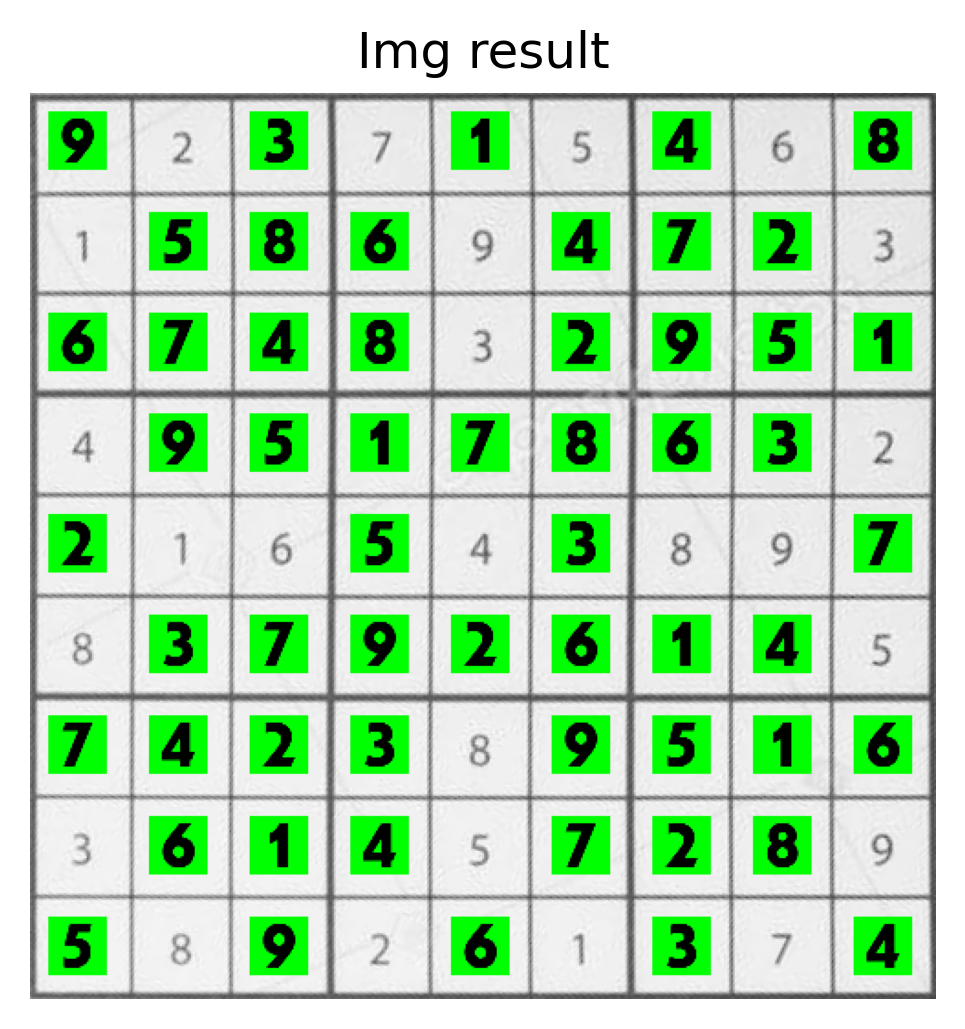
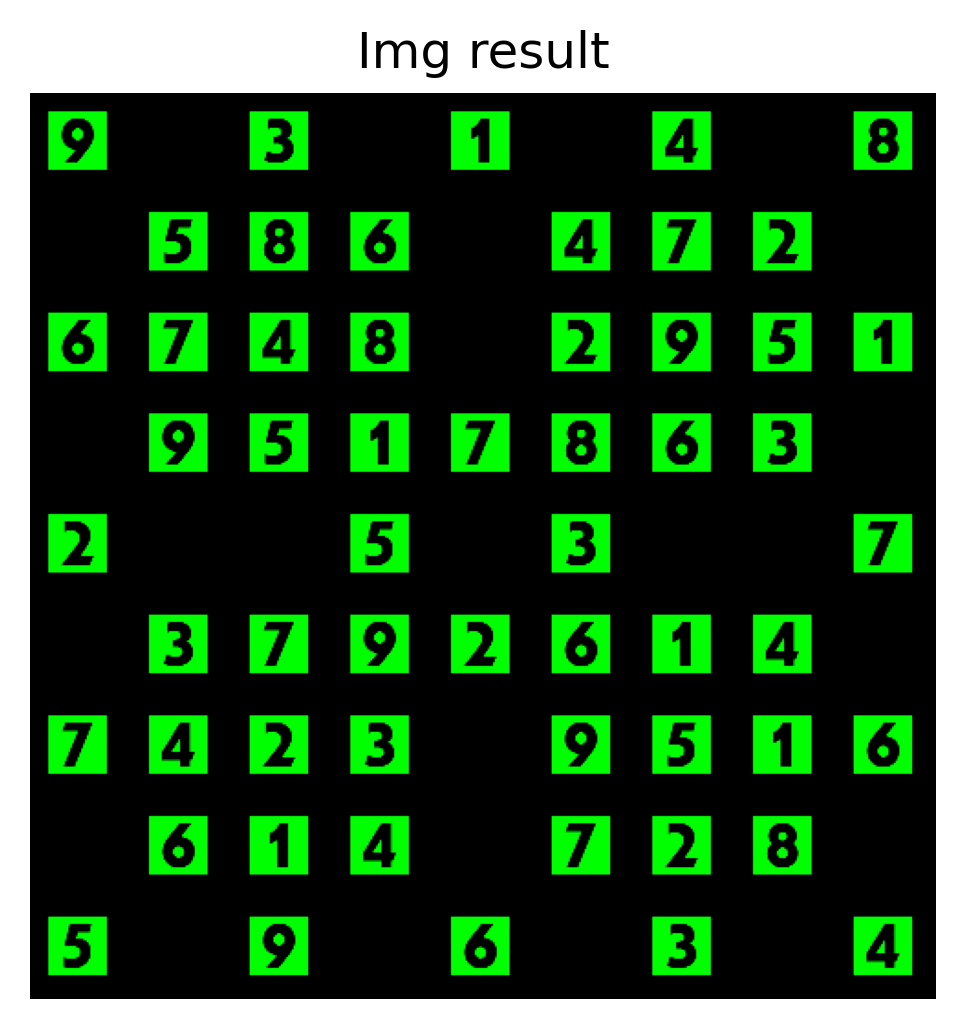
overlay solution acabat del tot

diff --git a/main.py b/main.py
@@ -12,7 +12,7 @@ if __name__ == "__main__":
     #read the image########################################################
     img = cv2.imread('figs/' + name + '.png', 1)
     imgC = img.copy()
-    imgC = cv2.resize(img, (495, 495))
+    imgOriginal = img.copy()
     plt.imshow(cv2.cvtColor(imgC, cv2.COLOR_BGR2RGB)), plt.axis('off'), plt.title("Img Input")
     if not os.path.exists('results/' + name):
         os.mkdir('results/' + name)
@@ -33,14 +33,14 @@ if __name__ == "__main__":
     #print(SudokuPoints) #print the points
     
     cv2.drawContours(imgC, SudokuPoints, -1, (0, 0, 255), 25) #draw in red the 4 points that form the sudoku
-    plt.imshow(cv2.cvtColor(imgC, cv2.COLOR_BGR2RGB)), plt.title("Img biggest contour")
+    plt.imshow(cv2.cvtColor(imgC, cv2.COLOR_BGR2RGB)), plt.axis('off'),plt.title("Img biggest contour")
     plt.savefig('results/' + name + '/'+ '2_Img_biggest_contour.png', dpi=300, bbox_inches='tight'),plt.show()
 
     pointsSudoku = np.float32(SudokuPoints) 
     pointsVoid = np.float32([[0, 0],[495, 0], [0, 495],[495, 495]]) 
     matrix = cv2.getPerspectiveTransform(pointsSudoku, pointsVoid)
     imgWarpColor = cv2.warpPerspective(img, matrix, (495, 495))
-    plt.imshow(cv2.cvtColor(imgWarpColor, cv2.COLOR_BGR2RGB)), plt.title("Img warped")
+    plt.imshow(cv2.cvtColor(imgWarpColor, cv2.COLOR_BGR2RGB)), plt.axis('off'), plt.title("Img warped")
     plt.savefig('results/' + name + '/'+ '3_Img_warped.png', dpi=300, bbox_inches='tight'),plt.show()
 
     img = cv2.cvtColor(imgWarpColor,cv2.COLOR_BGR2GRAY)
@@ -105,13 +105,37 @@ if __name__ == "__main__":
     img_c[:,:,0] = img_c2
     img_c[:,:,1] = img_c2
     img_c[:,:,2] = img_c2
-    
-    img_c = overlay_solution(img_c, sudoku_solution)
+    imgVoid = np.zeros((495, 495, 3), np.uint8) #void image to warp the original to
+
+    img_c = overlay_solution(imgVoid, sudoku_solution)
     img_c = img_c.astype('uint8')
     
     plt.imshow(cv2.cvtColor(img_c, cv2.COLOR_BGR2RGB)), plt.axis('off'), plt.title("Img result")
     plt.savefig('results/' + name + '/'+'8_img_result.png', dpi=300, bbox_inches='tight'),plt.show()
             
+    
+    pointsSudoku = np.float32(SudokuPoints) 
+    pointsImg = np.float32([[0, 0],[495, 0], [0, 495],[495, 495]]) 
+    matrix = cv2.getPerspectiveTransform(pointsImg, pointsSudoku)
+    imgOut = cv2.warpPerspective(img_c, matrix, (imgOriginal.shape[1], imgOriginal.shape[0]))
+    
+    '''
+    imgVoidOut = cv2.cvtColor(imgOut, cv2.COLOR_BGR2GRAY)
+    imgVoidOut[imgVoidOut > 0] = 255
+    '''
+    imgaux = np.zeros((imgOut.shape[0],imgOut.shape[1],3), np.uint8)
+    imgaux[:,:,0] = imgOut[:,:,1]
+    imgaux[:,:,1] = imgOut[:,:,1]
+    imgaux[:,:,2] = imgOut[:,:,1]
+    
+       
+    imgedited = imgOriginal * cv2.bitwise_not(imgaux).astype('bool')
+    imgedited[:,:,1] = (imgaux[:,:,1]/2).astype('uint8') + imgedited[:,:,1]
+    
+    
+    plt.imshow(cv2.cvtColor(imgedited, cv2.COLOR_BGR2RGB)), plt.axis('off'), plt.title("Img output")
+    plt.savefig('results/' + name + '/'+ '9_Img_output.png', dpi=300, bbox_inches='tight'),plt.show()
+
     
     #######################################################################
     
